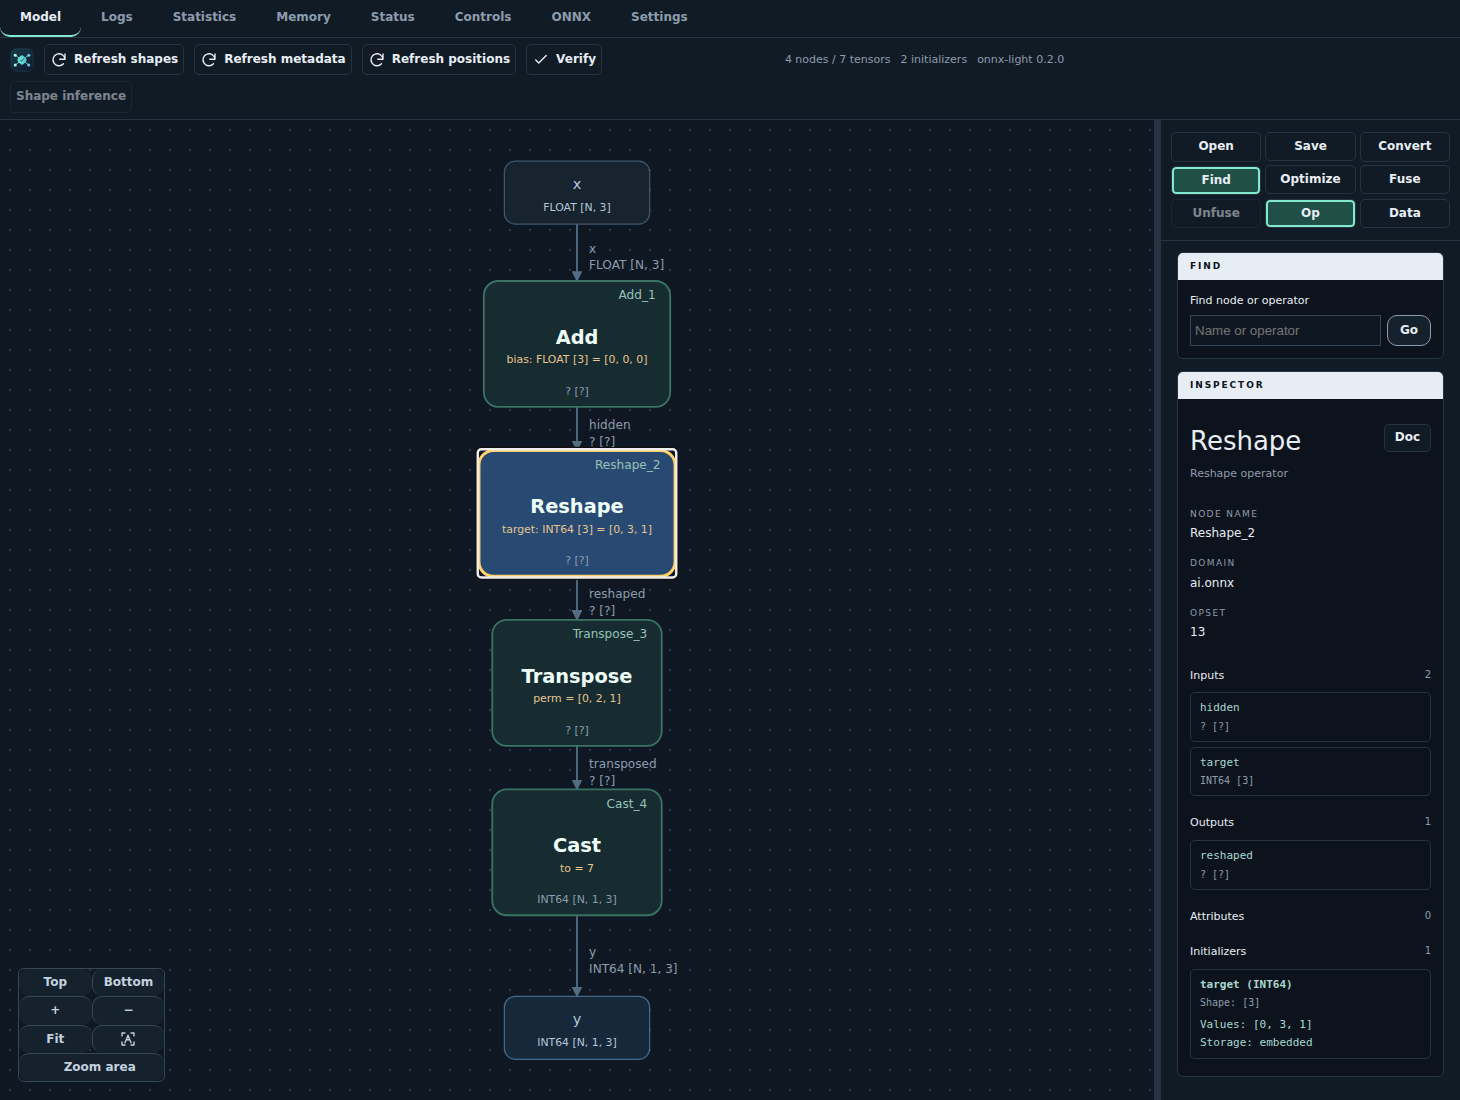
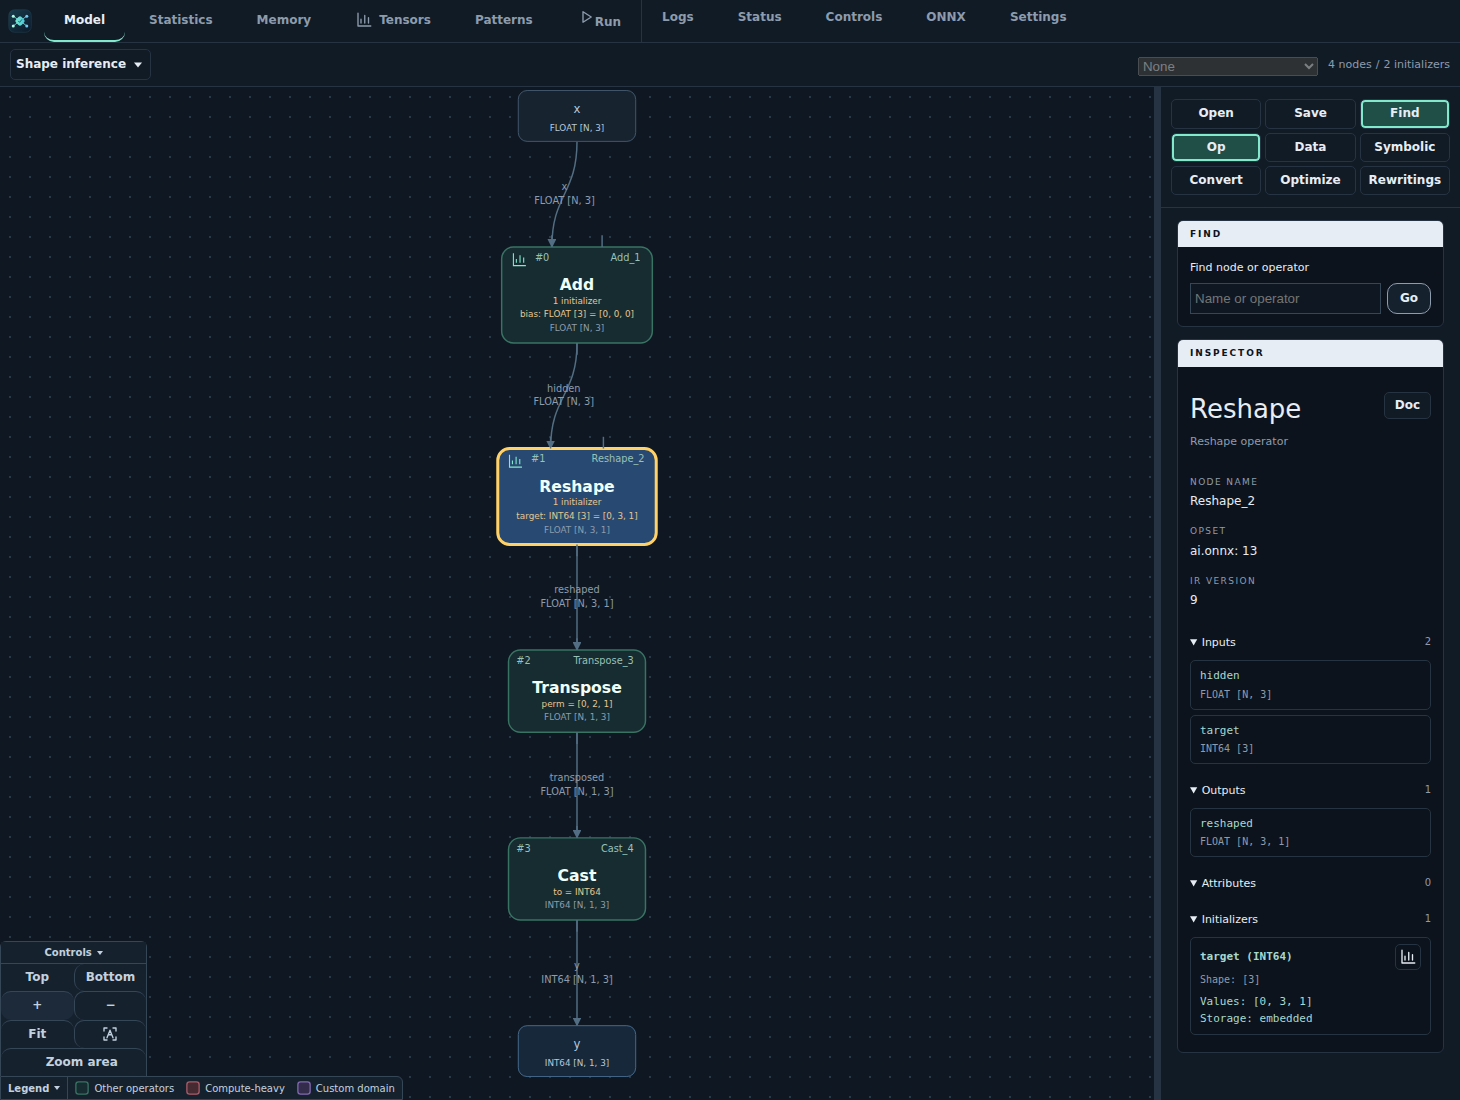
Show model versions in Op and prefill version conversion inputs (#379)
* Show IR version and domain-qualified opsets in Op inspector

Remove the redundant DOMAIN row, propagate exact model IR versions to graph snapshots and pipeline summaries, and refresh inspector tests and documentation screenshots.

* Prefill version conversion fields with current model values

Initialize the default-domain opset and IR version from the loaded graph, preserve edits while reopening the panel, and refresh fields on model replacement. Update focused UI tests and the conversion screenshot.

---------

diff --git a/src/webview.ts b/src/webview.ts
@@ -407,7 +407,7 @@ export function webviewHtml(
             <h2 id="operator-title" class="eyebrow panel-title">INSPECTOR</h2>
             <div class="inspector-heading"><h2 id="node-title">No model loaded</h2><button id="show-doc" disabled aria-haspopup="dialog">Doc</button></div><p id="node-description">Open an ONNX model to explore its connections.</p>
             <button id="open-function" class="icon-button" hidden>Open function</button>
-            <div id="node-details"><dl><dt id="node-name-label">NODE NAME</dt><dd id="node-name">—</dd><dt>DOMAIN</dt><dd id="node-domain">—</dd><dt>OPSET</dt><dd id="node-opset">—</dd></dl>
+            <div id="node-details"><dl><dt id="node-name-label">NODE NAME</dt><dd id="node-name">—</dd><dt>OPSET</dt><dd id="node-opset">—</dd><dt>IR VERSION</dt><dd id="node-ir-version">—</dd></dl>
             <details class="inspector-section" open><summary>Inputs <span id="input-count">0</span></summary><ul id="node-inputs"></ul></details>
             <details class="inspector-section" open><summary>Outputs <span id="output-count">0</span></summary><ul id="node-outputs"></ul></details>
             <details id="node-captures" class="inspector-section" open hidden><summary>Captured inputs</summary><ul id="captured-inputs"></ul></details>
@@ -496,8 +496,8 @@ export function webviewHtml(
               <h3 id="versions-title">Change ONNX versions</h3>
               <p>Upgrade or downgrade the current model, including unsaved edits. Blank fields keep the current version. Opset conversion uses Python ONNX's converter for the default ONNX domain only.</p>
               <div class="form-grid">
-                <label for="versions-opset">Target opset (optional)</label><input id="versions-opset" type="number" min="1" step="1" placeholder="Keep current">
-                <label for="versions-ir">Target ir_version (optional)</label><input id="versions-ir" type="number" min="1" step="1" placeholder="Keep current">
+                <label for="versions-opset">Target opset (optional)</label><input id="versions-opset" type="number" min="1" step="1">
+                <label for="versions-ir">Target ir_version (optional)</label><input id="versions-ir" type="number" min="1" step="1">
               </div>
               <p>This cannot be undone. A changed model clears native version-dependent rewritings and undo history. Pending rewritings are reapplied first. Save a copy to keep changes.</p>
               <p>Requires a trusted workspace and the onnx package in Application's configured Python interpreter. Unsupported conversions or invalid models leave the current model unchanged. Pipelines are not supported.</p>

diff --git a/src/graph.ts b/src/graph.ts
@@ -150,6 +150,8 @@ export interface TensorInformation {
 /** Display snapshot of one graph, not a recursive serialization of the model. */
 export interface Graph {
   name: string;
+  /** Model IR version as exact decimal text, or null if absent or no single model applies. */
+  irVersion: string | null;
   /** Declared imports, including unused domains; functions have their own imports. */
   opsets: { domain: string; version: string }[];
   /** Pipeline container or one of its stage graphs. */
@@ -175,7 +177,13 @@ export interface Graph {
 /** Root ports and counts without projecting individual operators, attributes or schemas. */
 export type GraphSummary = Pick<
   Graph,
-  "name" | "inputs" | "outputs" | "initializerCount" | "tensors" | "opsets"
+  | "name"
+  | "inputs"
+  | "outputs"
+  | "initializerCount"
+  | "tensors"
+  | "irVersion"
+  | "opsets"
 > & {
   nodeCount: number;
   functionCount?: number;
@@ -771,6 +779,7 @@ export function diffModels(
 /** Minimal Relu snapshot with native schema documentation, requiring no model file. */
 export const demoGraph: Graph = {
   name: "A first ONNX graph",
+  irVersion: "9",
   opsets: [{ domain: "ai.onnx", version: "13" }],
   breadcrumbs: [{ name: "A first ONNX graph", path: [] }],
   nodes: [

diff --git a/media/inspector.js b/media/inspector.js
@@ -76,13 +76,10 @@ function createInspector({
           : `${scope?.kind.toUpperCase() ?? "MODEL"} NAME`;
     byId("node-name").textContent =
       model?.name ?? node?.name ?? port?.name ?? scope?.name ?? "—";
+    byId("node-ir-version").textContent =
+      (model ? model.irVersion : scope?.irVersion) ?? "—";
     const opsets =
       model?.opsets ?? (!node && !port ? (scope?.opsets ?? []) : []);
-    const domains = [...new Set(opsets.map((opset) => opset.domain))].join(
-      ", ",
-    );
-    byId("node-domain").textContent =
-      (model ? domains : (node?.domain ?? domains)) || "—";
     byId("node-opset").replaceChildren();
     if (opsets.length) {
       for (const { domain, version } of opsets) {
@@ -90,8 +87,11 @@ function createInspector({
         entry.textContent = `${domain}: ${version}`;
         byId("node-opset").append(entry);
       }
+    } else if (node && !model) {
+      byId("node-opset").textContent =
+        `${node.domain || "ai.onnx"}: ${node.opset ?? "—"}`;
     } else {
-      byId("node-opset").textContent = node?.opset ?? "—";
+      byId("node-opset").textContent = "—";
     }
     if (inspectedNode !== node) {
       resetDocumentation();

diff --git a/src/pipeline.ts b/src/pipeline.ts
@@ -312,8 +312,16 @@ export class PipelineModel implements NativeModel {
   };
 
   summary = (inferShapes = false): GraphSummary => {
-    const { name, inputs, outputs, initializerCount, tensors, nodes, opsets } =
-      this.graph(inferShapes);
+    const {
+      name,
+      inputs,
+      outputs,
+      initializerCount,
+      tensors,
+      nodes,
+      irVersion,
+      opsets,
+    } = this.graph(inferShapes);
     const stages = nodes.flatMap((node) =>
       node.pipelineModel ? [node.pipelineModel] : [],
     );
@@ -323,6 +331,7 @@ export class PipelineModel implements NativeModel {
       outputs,
       initializerCount,
       tensors,
+      irVersion,
       opsets,
       nodeCount: stages.length
         ? stages.reduce((count, stage) => count + stage.nodeCount, 0)
@@ -386,6 +395,7 @@ export class PipelineModel implements NativeModel {
         opsets.set(JSON.stringify([opset.domain, opset.version]), opset);
     return {
       name,
+      irVersion: null,
       opsets: [...opsets.values()],
       pipeline: true,
       pipelineStages,

diff --git a/media/fusion-panel.js b/media/fusion-panel.js
@@ -2045,8 +2045,10 @@ function createFusionPanel({
     byId("versions-panel").hidden = true;
     byId("change-versions").setAttribute("aria-expanded", "false");
     byId("versions-status").textContent = "";
-    byId("versions-opset").value = "";
-    byId("versions-ir").value = "";
+    byId("versions-opset").value =
+      graph?.opsets?.find(({ domain }) => !domain || domain === "ai.onnx")
+        ?.version ?? "";
+    byId("versions-ir").value = graph?.irVersion ?? "";
     optimizationFinished = false;
     byId("optimization-rewriting-status").textContent = "";
     byId("optimization-rewriting-name").value = "";

diff --git a/media/viewer.js b/media/viewer.js
@@ -1667,6 +1667,7 @@ function inspectionScope(view) {
     graph: displayedGraph,
     kind,
     name: displayedGraph.name,
+    irVersion: displayedGraph.irVersion,
     opsets: displayedGraph.opsets,
     inputs: displayedGraph.inputs,
     outputs: displayedGraph.outputs,

diff --git a/native/graph_snapshot.cc b/native/graph_snapshot.cc
@@ -31,6 +31,12 @@ Napi::Array OpsetImports(Napi::Env env, const auto &imports) {
   return result;
 }
 
+Napi::Value ModelIrVersion(Napi::Env env, const ol::ModelProto &model) {
+  if (!model.has_ir_version())
+    return env.Null();
+  return Text(env, std::to_string(model.ir_version()));
+}
+
 Napi::Array Dimensions(Napi::Env env, const ol::TensorShapeProto &shape) {
   auto result = Napi::Array::New(env);
   uint32_t index = 0;
@@ -865,6 +871,7 @@ Napi::Object ModelSummary(Napi::Env env, const ol::ModelProto &model,
   auto result = Napi::Object::New(env);
   result.Set("name", graph.name().empty() ? Text(env, file_name) : Text(env, graph.name()));
   result.Set("nodeCount", graph.node_size());
+  result.Set("irVersion", ModelIrVersion(env, model));
   result.Set("opsets", OpsetImports(env, model.opset_import()));
   result.Set("initializerCount", Napi::Number::New(env, initializers.size()));
   result.Set("denseInitializerCount", Napi::Number::New(env, dense_initializer_count));
@@ -1174,6 +1181,7 @@ Napi::Object ModelGraph(Napi::Env env, const ol::ModelProto &model, const std::s
   }
   auto result = Napi::Object::New(env);
   result.Set("name", graph.name().empty() ? Text(env, file_name) : Text(env, graph.name()));
+  result.Set("irVersion", ModelIrVersion(env, model));
   auto breadcrumbs = Napi::Array::New(env);
   GraphPath prefix;
   for (uint32_t depth = 0; depth < scopes.size(); ++depth) {

diff --git a/docs/features/inspection.rst b/docs/features/inspection.rst
@@ -23,13 +23,13 @@ reopening, including after closing the application. Passwords and model data are
 not included in these preferences.
 
 .. image:: ../_static/inspection.png
-   :alt: Reshape inspector showing input and output tensor dimensions and an initializer.
+   :alt: Reshape inspector showing opset, IR version, tensor dimensions and an initializer.
    :width: 240px
 
-Select a node to see its name, domain, imported opset, inputs, outputs and typed
-attributes. Scalar and list values appear below the name/type heading without
-repeating the attribute name. Schema defaults are marked ``[default]``; long
-attribute arrays show a bounded preview.
+Select a node to see its name, domain-qualified opset, the model's IR version,
+inputs, outputs and typed attributes. Scalar and list values appear below the
+name/type heading without repeating the attribute name. Schema defaults are
+marked ``[default]``; long attribute arrays show a bounded preview.
 
 Click the background to inspect the current **Model**, **Graph**, **Function** or
 **Pipeline** instead of an operator. The inspector shows its name and ports.
@@ -39,8 +39,9 @@ and **Encoded initializers** separately, with counts, types, shapes and storage
 details. These lists include unused initializers declared in the current graph,
 not weights captured from a parent graph. For pipelines, open a model's graph
 to inspect its initializers.
-Functions show their own imports; a pipeline overview combines the imports of
-its models, preserving different versions of the same domain.
+Functions show their own imports and their containing model's IR version. A
+pipeline overview combines its models' imports, preserving different versions of
+the same domain; select a model to see that stage's IR version.
 
 Open **Symbolic** for **Refresh shapes**, **Refresh metadata**,
 **Refresh positions**, **Verify** and **Shorten dimension names**.

diff --git a/docs/features.rst b/docs/features.rst
@@ -466,13 +466,14 @@ sampling settings, while pipeline interface names and EOS defaults are preserved
 Inspection
 ^^^^^^^^^^
 
-Inspect types, symbolic shapes, attributes/schema defaults, dense/sparse/encoded
-initializer metadata, opaque/structured types, bounded previews and Markdown
-operator documentation. See :doc:`features/inspection`. External or omitted
-payloads are not read for previews; this is not a full tensor-data browser.
+Inspect the model's IR version, domain-qualified opsets, types, symbolic shapes,
+attributes/schema defaults, dense/sparse/encoded initializer metadata,
+opaque/structured types, bounded previews and Markdown operator documentation.
+See :doc:`features/inspection`. External or omitted payloads are not read for
+previews; this is not a full tensor-data browser.
 
 .. figure:: _static/feature-inspection.png
-   :alt: Reshape inspector showing input and output tensors, attributes and initializer details.
+   :alt: Reshape inspector showing domain-qualified opset, IR version, tensors and initializer details.
    :width: 100%
 
    Operator details accompany the selected graph node.
@@ -658,8 +659,9 @@ Changing model versions
 ^^^^^^^^^^^^^^^^^^^^^^^
 
 Open **Rewritings → Change versions** to upgrade or downgrade the current
-model's default-domain ONNX opset and/or ``ir_version``. Enter positive integers;
-leave either field blank to retain its current value. **Apply versions** uses
+model's default-domain ONNX opset and/or ``ir_version``. Both fields start with
+the current model's values. Enter positive integers; leave either field blank
+to retain its current value. **Apply versions** uses
 the official Python ``onnx.version_converter.convert_version`` for opset
 conversion, then sets ``ir_version`` and checks the result with ``onnx.checker``.
 It does not convert custom-domain opsets or change the onnx-light library.

diff --git a/docs/features/opening_models.rst b/docs/features/opening_models.rst
@@ -64,8 +64,8 @@ overview lists the required **prefill** model and optional **embedding** and
 **decode** models. Click a stage link to inspect its graph, subgraphs and local
 functions; breadcrumbs return to the overview.
 Overview boxes represent contained models, not operators. Selecting one shows its
-stage role, graph name, operator count and all imported domains/opsets in **Op**;
-the overview counter counts models. Use the model link to enter its graph.
+stage role, graph name, IR version, operator count and all imported domains/opsets
+in **Op**; the overview counter counts models. Use the model link to enter its graph.
 The permanent navigation bar also links directly to every available stage,
 including while viewing another stage or one of its subgraphs. Nested graph
 and function names follow the stage links.
